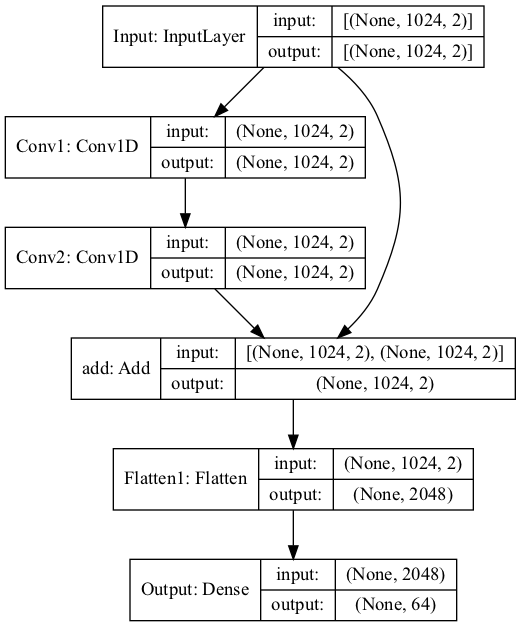
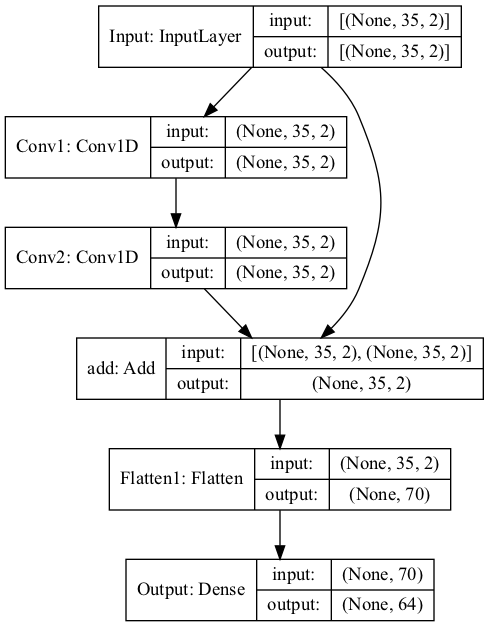
PCA lets go

diff --git a/main_symbols_Predictor.py b/main_symbols_Predictor.py
@@ -17,17 +17,17 @@ from CNN_symbols import CNN_symbols
 
 gpu_path = ''
 
-xtrain = np.load(gpu_path+'data/feature_vectors_train_10knoise_SNR35_10.npy')
+xtrain = np.load(gpu_path+'data/feature_vectors_train_10knoise_SNR35_10_PCA.npy')
 ytrain = np.load(gpu_path+'data/labels_train_10knoise_SNR35_10.npy')
 btrain = np.load(gpu_path+'data/bit_signals_train_10knoise_SNR35_10.npy')
 sbtrain=np.load(gpu_path+'data/symbols_train_10knoise_SNR35_10.npy')
 
-xtest = np.load(gpu_path+'data/feature_vectors_test_10knoise_SNR35_10.npy')
+xtest = np.load(gpu_path+'data/feature_vectors_test_10knoise_SNR35_10_PCA.npy')
 ytest = np.load(gpu_path+'data/labels_test_10knoise_SNR35_10.npy')
 btest = np.load(gpu_path+'data/bit_signals_test_10knoise_SNR35_10.npy')
 sbtest=np.load(gpu_path+'data/symbols_test_10knoise_SNR35_10.npy')
 
-xvalidation = np.load(gpu_path+'data/feature_vectors_val_10knoise_SNR35_10.npy')
+xvalidation = np.load(gpu_path+'data/feature_vectors_val_10knoise_SNR35_10_PCA.npy')
 yvalidation = np.load(gpu_path+'data/labels_val_10knoise_SNR35_10.npy')
 bvalidation = np.load(gpu_path+'data/bit_signals_val_10knoise_SNR35_10.npy')
 sbval=np.load(gpu_path+'data/symbols_val_10knoise_SNR35_10.npy')
@@ -36,13 +36,6 @@ sbval=np.load(gpu_path+'data/symbols_val_10knoise_SNR35_10.npy')
 sbtrain.shape = (-1,64)
 sbtest.shape = (-1,64)
 sbval.shape = (-1,64)
-
-#xtrain[:,:,0] = (xtrain[:,:,0] - np.mean(xtrain[:,:,0],axis=1,keepdims=True)) / np.std(xtrain[:,:,0],axis=1,keepdims=True)
-#xvalidation[:,:,0] = (xvalidation[:,:,0] - np.mean(xvalidation[:,:,0],axis=1,keepdims=True)) / np.std(xvalidation[:,:,0],axis=1,keepdims=True)
-#xtest[:,:,0] = (xtest[:,:,0] - np.mean(xtest[:,:,0],axis=1,keepdims=True)) / np.std(xtest[:,:,0],axis=1,keepdims=True)
-#xtrain[:,:,1] = (xtrain[:,:,1] - np.mean(xtrain[:,:,1],axis=1,keepdims=True)) / np.std(xtrain[:,:,1],axis=1,keepdims=True)
-#xvalidation[:,:,1] = (xvalidation[:,:,1] - np.mean(xvalidation[:,:,1],axis=1,keepdims=True)) / np.std(xvalidation[:,:,1],axis=1,keepdims=True)
-#xtest[:,:,1] = (xtest[:,:,1] - np.mean(xtest[:,:,1],axis=1,keepdims=True)) / np.std(xtest[:,:,1],axis=1,keepdims=True)
 
 print(np.mean(xtrain[0,:,0]),np.std(xtrain[0,:,0]))
 
